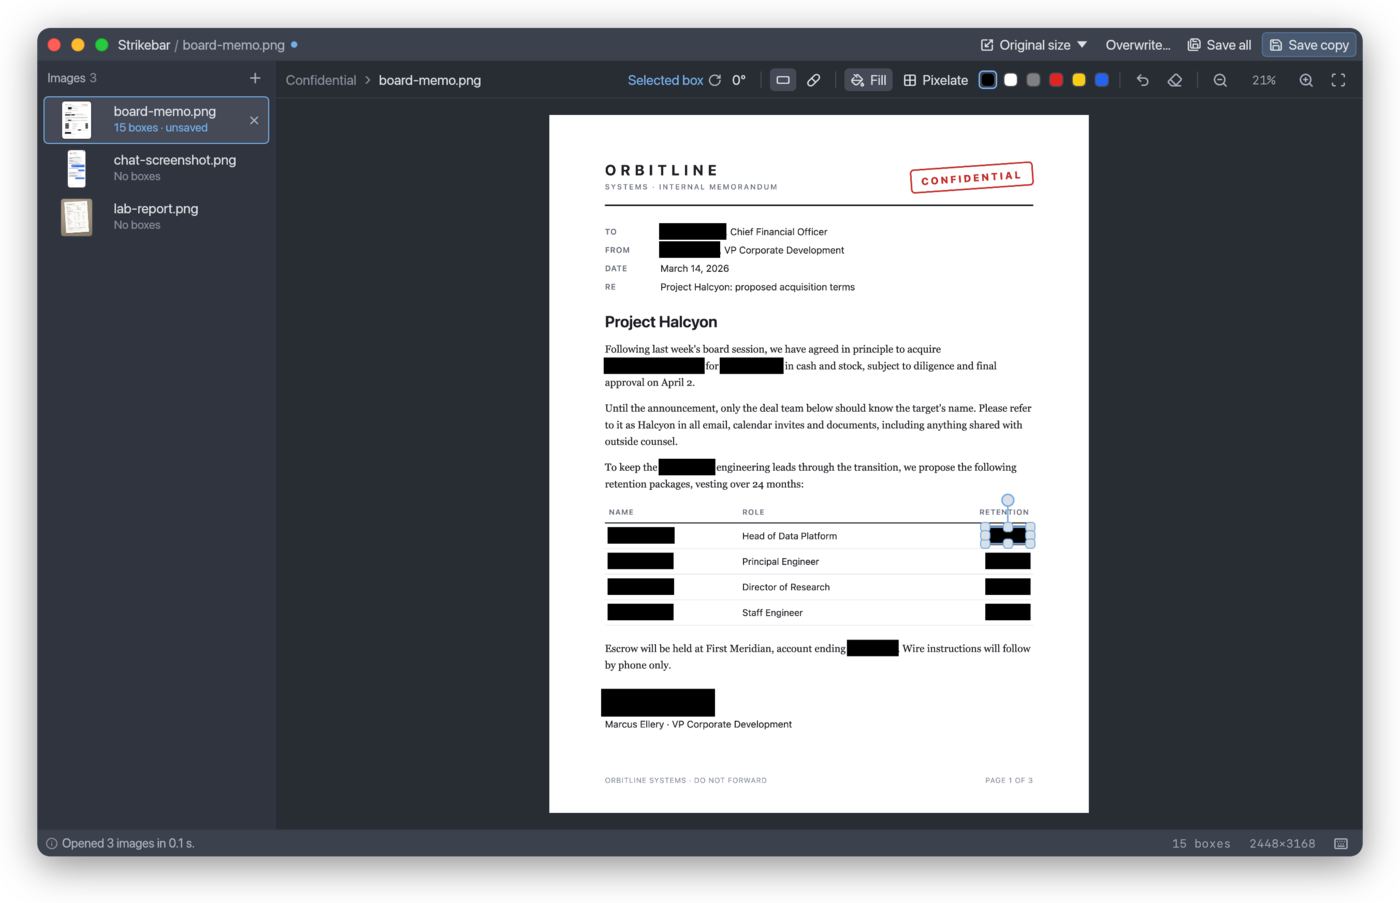
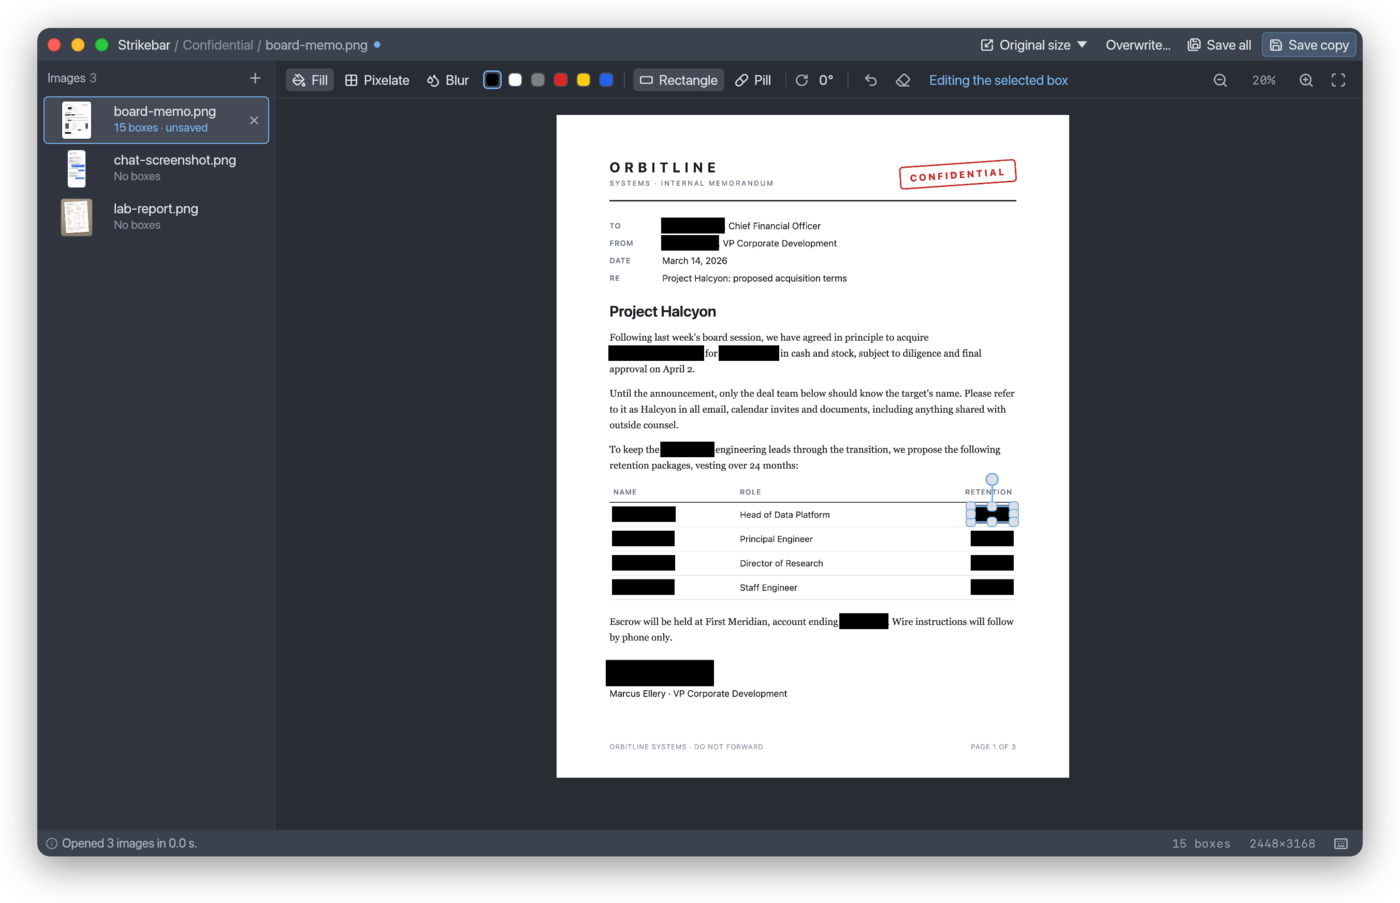
README: download instructions, light/dark and Settings screenshots
- Download section: the Apple silicon DMG from the latest release, the
  first-launch steps for an app that isn't notarized (macOS 15+ and 14-),
  in-app updates, and building from source elsewhere.
- Light and dark, and Settings, as screenshot pairs; the memo, chat and
  lab report shots re-rendered with the one-row toolbar.
- README-only scenes 06-08 and a `menu none` scene command that closes
  Settings and open menus between scenes.
- capture.sh no longer kills every running Strikebar, only its own.

Changed region(s): [[0.3686, 0.124, 0.7986, 0.8992], [0.1229, 0.031, 0.7986, 0.124]]

diff --git a/src/screenshots.rs b/src/screenshots.rs
@@ -16,7 +16,8 @@
 //! select 1                          # 0-based box index, or `none`
 //! size 1920                         # save size preset (`original` for none)
 //! menu size                         # open the save size menu (or `menu settings [saving]`,
-//!                                   # `menu default-size`: Settings → Saving → Default size)
+//!                                   # `menu default-size`: Settings → Saving → Default size;
+//!                                   # `menu none` closes Settings and any open menu)
 //! save                              # save a copy of the shown image (or `save-all`)
 //! window 900 700                    # window size in points for this and later shots
 //! theme light                       # `light`, `dark` or `auto` (default: dark)
@@ -64,6 +65,7 @@ pub enum Command {
     Size(SaveSize),
     OpenSizeMenu,
     OpenDefaultSizeMenu,
+    CloseMenus,
     /// Open Settings, on the Saving tab if `true`.
     OpenSettings(bool),
     Save,
@@ -241,6 +243,7 @@ fn parse_line(cmd: &str, args: &[&str]) -> Result<Option<Command>, String> {
         ("menu", ["settings"]) => Command::OpenSettings(false),
         ("menu", ["settings", "saving"]) => Command::OpenSettings(true),
         ("menu", ["default-size"]) => Command::OpenDefaultSizeMenu,
+        ("menu", ["none"]) => Command::CloseMenus,
         ("update", ["check"]) => Command::UpdateCheck,
         ("update", ["install"]) => Command::UpdateInstall,
         ("window", [w, h]) => Command::Window(num(w)?, num(h)?),

diff --git a/src/app.rs b/src/app.rs
@@ -1073,6 +1073,10 @@ impl StrikebarApp {
                         SettingsTab::General
                     };
                 }
+                Command::CloseMenus => {
+                    self.settings_open = false;
+                    egui::Popup::close_all(ctx);
+                }
                 Command::UpdateCheck => self.updates.start(ctx),
                 Command::UpdateInstall => match self.updates.status.clone() {
                     update::Status::Available(release) => self.install_update(ctx, release),

diff --git a/README.md b/README.md
@@ -4,6 +4,19 @@ Small native app for redacting parts of images. Rust + egui (eframe). Runs on ma
 
 ![Strikebar with names, amounts and a signature blacked out in a memo](docs/screenshots/blackout.png)
 
+## Download
+
+**macOS 11 or newer, Apple silicon:** get `Strikebar-<version>-apple-silicon.dmg` from the [latest release](https://github.com/binho/strikebar/releases/latest), open it and drag Strikebar onto Applications.
+
+Strikebar isn't notarized by Apple yet, so macOS blocks the first launch:
+
+- **macOS 15 and newer:** open Strikebar, close the warning, then go to System Settings → Privacy & Security and click *Open Anyway* next to Strikebar.
+- **macOS 14 and older:** right-click Strikebar in Applications, choose *Open*, then *Open* again.
+
+After that it opens normally. New versions install from inside the app: Settings → General → Updates → *Install and relaunch*. Each download is checked against Strikebar's release signing key before it's installed.
+
+**Intel Macs, Windows and Linux:** no downloads yet. [Build it from source](#build-requirements).
+
 ## Build requirements
 
 HEIC/HEIF support uses [libheif](https://github.com/strukturag/libheif) (via `libheif-rs`), found with `pkg-config`:
@@ -32,7 +45,7 @@ The bundle is self-contained (runs without Homebrew):
 - `scripts/bundle-macos.sh` builds the app against it (in `target/bundle`, so dev builds keep using Homebrew's libheif), copies `libheif` and `libde265` into `Contents/Frameworks`, relinks them via `@rpath`, adds their LGPL-3.0 licenses under `Contents/Resources/licenses`, re-signs ad hoc, and fails if anything still points outside the app.
 - libde265 is built from source too, so the app runs on macOS 11 and newer. `LSMinimumSystemVersion` is set to the newest macOS any bundled binary requires.
 - The icon is `assets/icon.svg`. After editing it, run `./scripts/make-icon.sh` (needs `brew install resvg`) to regenerate `assets/Strikebar.icns` and `assets/icon-256.png`, which are kept in the repo so building doesn't need resvg.
-- It's signed ad hoc, not notarized: on another Mac, open it with right-click → Open the first time.
+- It's signed ad hoc, not notarized: the first launch on another Mac needs the steps in [Download](#download).
 
 ### Releases and updates
 
@@ -70,6 +83,22 @@ The bundle is self-contained (runs without Homebrew):
   - *Saving*: copies go next to the original or into a folder you pick; the name gets a suffix or prefix (`-redacted` by default; taken names are numbered, so a copy never replaces anything); JPEG quality (50–100, default 92, also used for HEIC and GIF copies); the save size at launch; and what happens after saving (stay, show the file in Finder/Explorer, or go to the next image).
 - **Size**: the picker next to the save buttons scales saved images down to a long side of 3840, 2560, 1920, 1280 or 800 px (default: original size). It applies to every save, overwrite included, and never enlarges smaller images; hover it to see the resulting size. Scaling happens after redacting, so redacted areas stay redacted.
 
+### Light and dark
+
+Settings → General → Appearance: follow the system (Auto), or always light or dark.
+
+<p>
+  <img src="docs/screenshots/blackout.png" width="49%" alt="The redacted memo in the dark theme">
+  <img src="docs/screenshots/light.png" width="49%" alt="The same memo in the light theme">
+</p>
+
+### Settings
+
+<p>
+  <img src="docs/screenshots/settings-general.png" width="49%" alt="Settings, General tab: appearance, new boxes, strength and updates">
+  <img src="docs/screenshots/settings-saving.png" width="49%" alt="Settings, Saving tab: where copies go, file name, JPEG quality, default size and what happens after saving">
+</p>
+
 ## Notes on safety
 
 - HEIC rotation (as stored by iPhones) is applied by libheif when decoding.
@@ -97,8 +126,10 @@ The screenshots above and the Mac App Store ones are generated, so they can be r
 ./marketing/capture.sh       # → target/marketing/appstore/*.png (2560×1600) and framed/readme/*.png
 ```
 
+Copy the ones the README uses from `target/marketing/framed/readme/` to `docs/screenshots/`: `01-blackout` → `blackout.png`, `02-pixelate` → `pixelate.png`, `03-pills` → `pills.png`, `06-light` → `light.png`, `07-settings` → `settings-general.png`, `08-settings-saving` → `settings-saving.png`.
+
 - `marketing/documents/` holds fictional documents (made-up companies, people and numbers) as HTML. Headless Chrome renders them and reports where each `data-r` element is, in image pixels.
-- `marketing/scenes/` are scene scripts: which document to show, where to put boxes (`box @name`), what to select, which menu to open. The app runs them in capture mode (`STRIKEBAR_SCREENSHOTS=<folder>`, see `src/screenshots.rs`) and saves the window at 1280×800 points, 2560×1600 pixels.
+- `marketing/scenes/` are scene scripts: which document to show, where to put boxes (`box @name`), what to select, which menu to open, light or dark. Scenes 01–05 are the App Store set; 06–08 are only for the README. The app runs them in capture mode (`STRIKEBAR_SCREENSHOTS=<folder>`, see `src/screenshots.rs`) and saves the window at 1280×800 points, 2560×1600 pixels.
 - `scripts/frame-screenshots.sh` adds the traffic lights (macOS draws them, so the app's own capture lacks them), and `marketing/frame.html` adds each App Store headline.
 
 ## License
